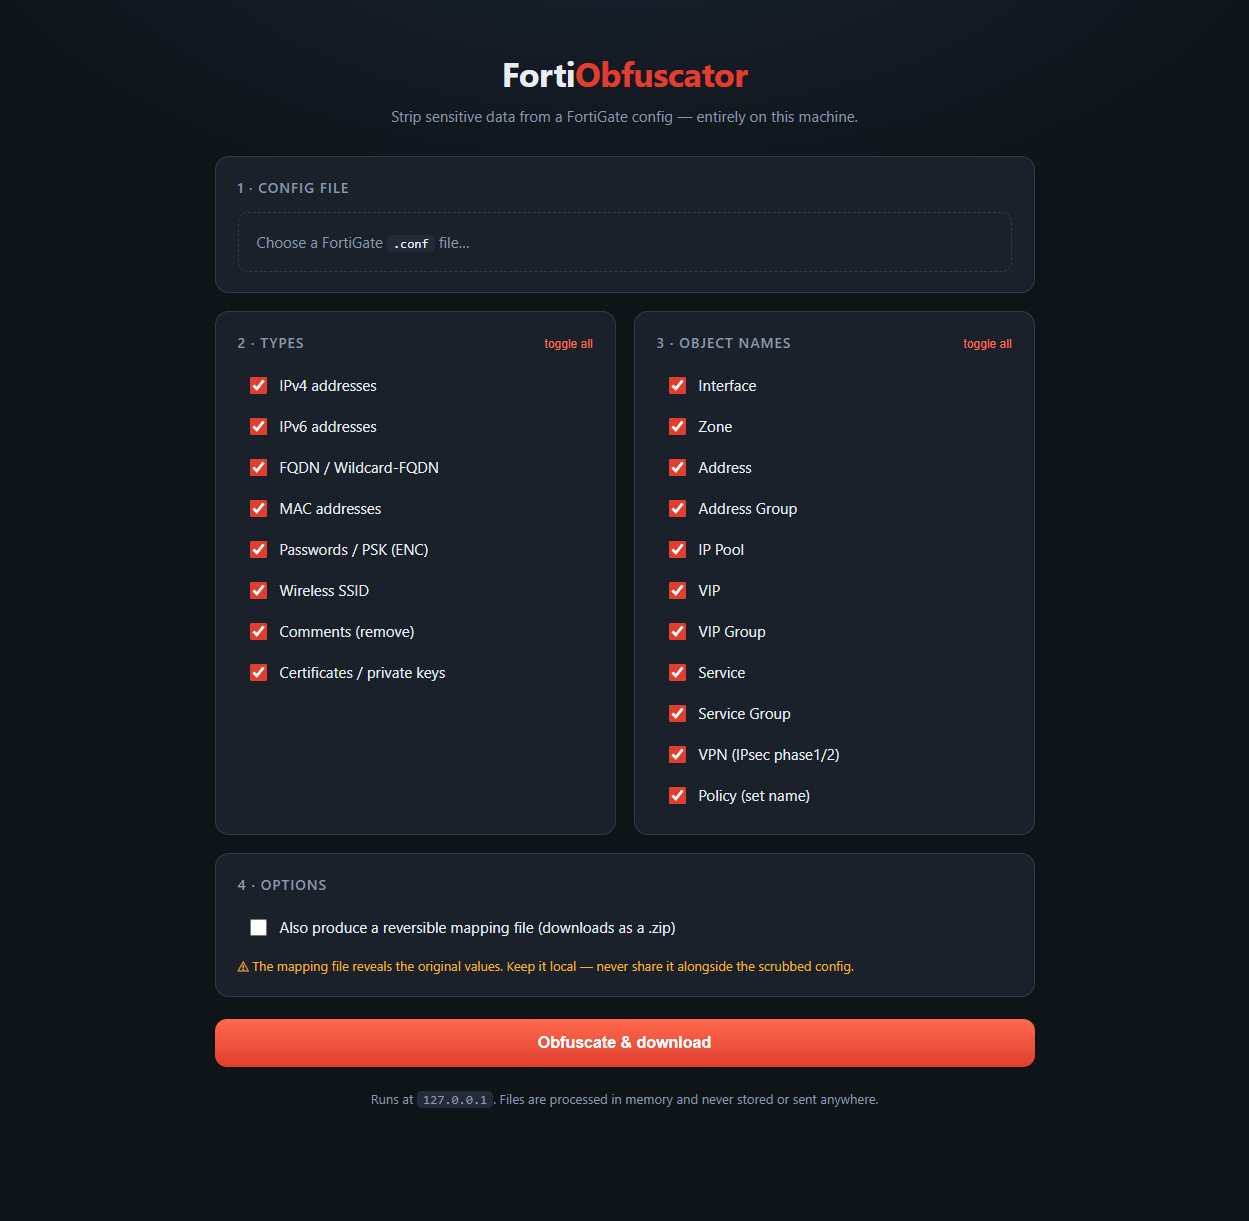
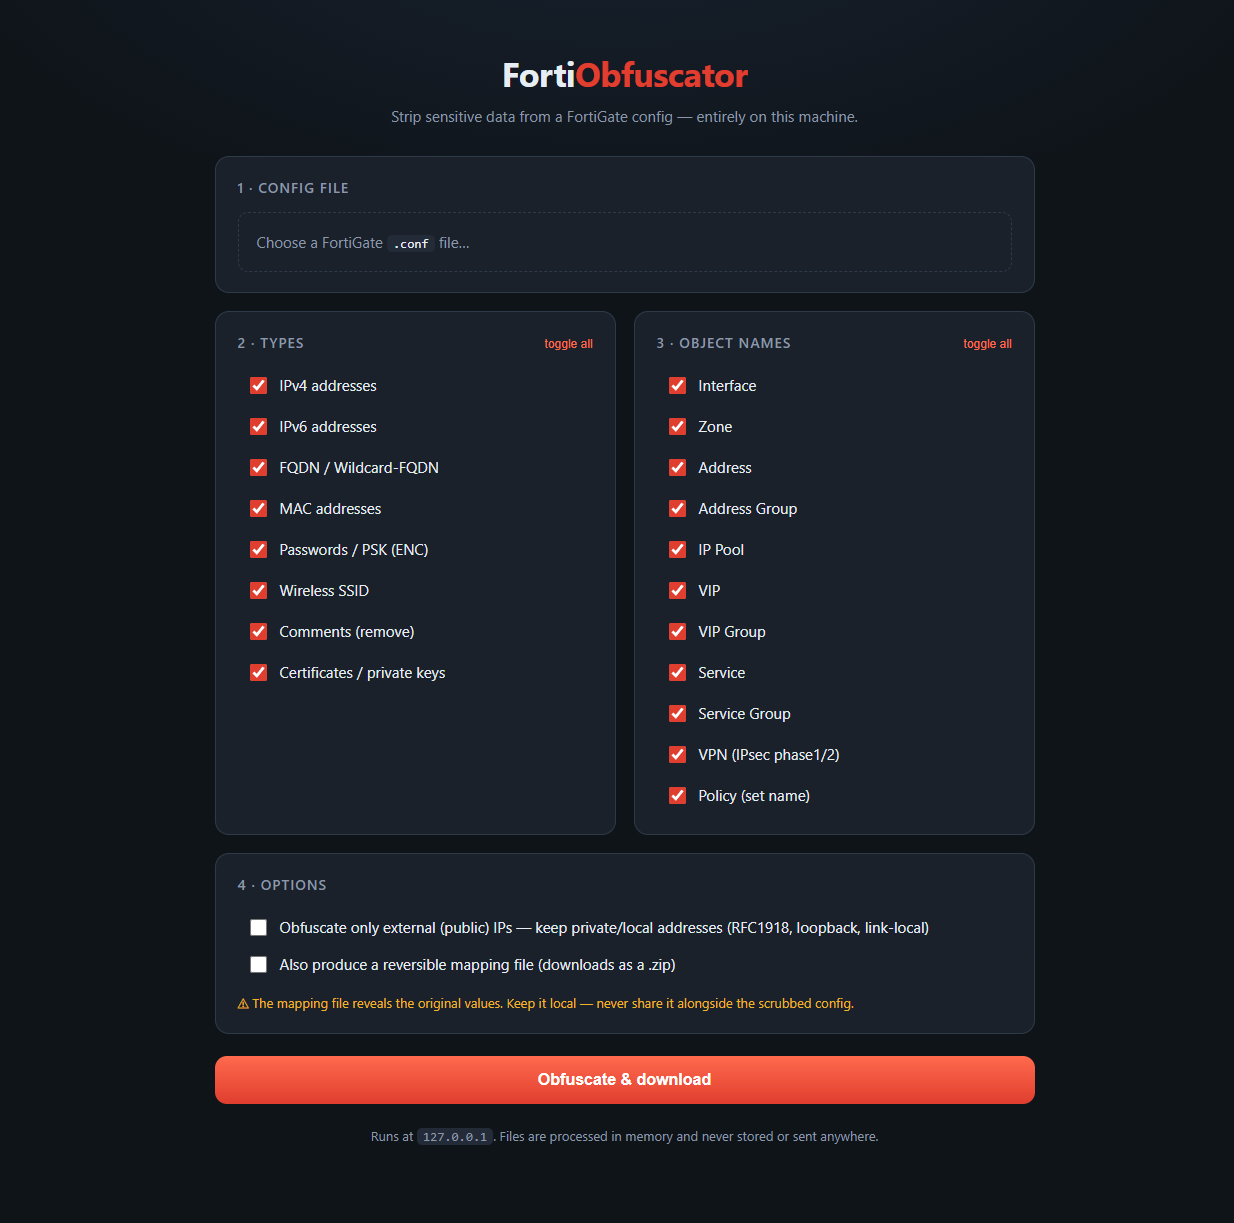
Add "external IPs only" option (keep private/local addresses)
New Options.public_ips_only: when set, only public IPs are obfuscated and
local/LAN addresses (RFC1918, loopback, link-local, ULA) are preserved. "Local"
is defined by explicit network lists (engine._is_local_ipv4/_is_local_ipv6),
narrower than ipaddress.is_private which also flags documentation ranges.

- CLI flag --public-ips-only
- web UI checkbox under Options (screenshot refreshed)
- 2 new tests; README + CLAUDE.md updated

Claude-Session: https://claude.ai/code/session_018Gw9D3mi3n5xScrhLsensL

diff --git a/webapp/templates/index.html b/webapp/templates/index.html
@@ -57,6 +57,10 @@
       <section class="card">
         <h2>4 &middot; Options</h2>
         <label class="chk">
+          <input type="checkbox" name="public_ips_only">
+          <span>Obfuscate only external (public) IPs &mdash; keep private/local addresses (RFC1918, loopback, link-local)</span>
+        </label>
+        <label class="chk">
           <input type="checkbox" name="emit_mapping">
           <span>Also produce a reversible mapping file (downloads as a .zip)</span>
         </label>

diff --git a/fortiobfuscator/engine.py b/fortiobfuscator/engine.py
@@ -25,6 +25,9 @@ class Options:
     types: set[str] = field(default_factory=lambda: set(ALL_TYPE_KEYS))
     categories: set[str] = field(default_factory=lambda: set(ALL_CATEGORY_KEYS))
     emit_mapping: bool = False
+    # When True, only public (external) IPs are obfuscated; private/local
+    # addresses (RFC1918, loopback, link-local, ULA) are left as-is.
+    public_ips_only: bool = False
 
     @classmethod
     def all_enabled(cls, emit_mapping: bool = False) -> "Options":
@@ -47,6 +50,26 @@ class Result:
 # --------------------------------------------------------------------------- #
 # Helpers
 # --------------------------------------------------------------------------- #
+
+
+# "Local" = LAN-style addresses a user typically wants to keep when only
+# scrubbing external IPs. Deliberately narrower than ipaddress.is_private, which
+# also flags documentation/benchmark ranges.
+_LOCAL_V4_NETS = tuple(
+    ipaddress.ip_network(n)
+    for n in ("10.0.0.0/8", "172.16.0.0/12", "192.168.0.0/16", "127.0.0.0/8", "169.254.0.0/16")
+)
+_LOCAL_V6_NETS = tuple(
+    ipaddress.ip_network(n) for n in ("::1/128", "fc00::/7", "fe80::/10")
+)
+
+
+def _is_local_ipv4(addr: ipaddress.IPv4Address) -> bool:
+    return any(addr in net for net in _LOCAL_V4_NETS)
+
+
+def _is_local_ipv6(addr: ipaddress.IPv6Address) -> bool:
+    return any(addr in net for net in _LOCAL_V6_NETS)
 
 
 def _is_netmask_or_zero(addr: str) -> bool:
@@ -118,6 +141,8 @@ def obfuscate(text: str, options: Options | None = None) -> Result:
                 return token  # not a real IPv6 (e.g. a MAC) — leave alone
             if int(addr) == 0:  # :: (unspecified)
                 return token
+            if options.public_ips_only and _is_local_ipv6(addr):
+                return token  # keep local addresses
             bump("ipv6")
             return ipv6_store.get(token, mp.ipv6_replacement)
 
@@ -128,6 +153,12 @@ def obfuscate(text: str, options: Options | None = None) -> Result:
             token = m.group(0)
             if _is_netmask_or_zero(token):
                 return token
+            if options.public_ips_only:
+                try:
+                    if _is_local_ipv4(ipaddress.IPv4Address(token)):
+                        return token  # keep RFC1918 / loopback / link-local
+                except ipaddress.AddressValueError:
+                    return token
             bump("ipv4")
             return ipv4_store.get(token, mp.ipv4_replacement)
 

diff --git a/tests/test_engine.py b/tests/test_engine.py
@@ -165,6 +165,27 @@ def test_disable_ipv4_leaves_ips(sample_text):
     assert "203.0.113.10" in res.text
 
 
+def test_public_ips_only_keeps_private(sample_text):
+    opts = Options.all_enabled()
+    opts.public_ips_only = True
+    res = obfuscate(sample_text, opts)
+    text = res.text
+    # private / local addresses preserved
+    assert "10.10.10.1" in text
+    assert "10.20.0.1" in text
+    assert "10.10.10.0" in text
+    # public addresses still obfuscated
+    assert "203.0.113.10" not in text
+    assert "198.51.100.5" not in text
+    assert "198.51.100.200" not in text
+
+
+def test_public_ips_only_default_off(sample_text):
+    res = obfuscate(sample_text, Options.all_enabled())
+    # default behaviour still scrubs private IPs
+    assert "10.10.10.1" not in res.text
+
+
 def test_disable_address_category_leaves_names(sample_text):
     opts = Options.all_enabled()
     opts.categories.discard("address")

diff --git a/fortiobfuscator/cli.py b/fortiobfuscator/cli.py
@@ -46,6 +46,12 @@ def build_parser() -> argparse.ArgumentParser:
             help=f"do not rename {cat.label} object names",
         )
     p.add_argument(
+        "--public-ips-only",
+        dest="public_ips_only",
+        action="store_true",
+        help="obfuscate only external (public) IPs; keep private/local addresses (RFC1918, loopback, link-local, ULA)",
+    )
+    p.add_argument(
         "--summary",
         action="store_true",
         help="print a substitution summary to stderr",
@@ -56,7 +62,12 @@ def build_parser() -> argparse.ArgumentParser:
 def options_from_args(args: argparse.Namespace) -> Options:
     types = {k for k in ALL_TYPE_KEYS if not getattr(args, f"no_{k}", False)}
     cats = {k for k in ALL_CATEGORY_KEYS if not getattr(args, f"no_{k}", False)}
-    return Options(types=types, categories=cats, emit_mapping=bool(args.mapping))
+    return Options(
+        types=types,
+        categories=cats,
+        emit_mapping=bool(args.mapping),
+        public_ips_only=bool(getattr(args, "public_ips_only", False)),
+    )
 
 
 def main(argv: list[str] | None = None) -> int:

diff --git a/webapp/app.py b/webapp/app.py
@@ -54,8 +54,14 @@ def do_obfuscate():
     types = {k for k in ALL_TYPE_KEYS if request.form.get(f"type_{k}")}
     cats = {k for k in ALL_CATEGORY_KEYS if request.form.get(f"cat_{k}")}
     emit_mapping = bool(request.form.get("emit_mapping"))
+    public_ips_only = bool(request.form.get("public_ips_only"))
 
-    options = Options(types=types, categories=cats, emit_mapping=emit_mapping)
+    options = Options(
+        types=types,
+        categories=cats,
+        emit_mapping=emit_mapping,
+        public_ips_only=public_ips_only,
+    )
     result = obfuscate(text, options)
 
     base = os.path.splitext(os.path.basename(upload.filename))[0] or "config"

diff --git a/README.md b/README.md
@@ -72,7 +72,9 @@ Every item below is an independent toggle in both the UI and the CLI.
 **Values (global, consistent)**
 
 - **IPv4 / IPv6** — every address (unicast, multicast, private, ranges) →
-  consistent fakes. Subnet masks and `0.0.0.0` are left intact.
+  consistent fakes. Subnet masks and `0.0.0.0` are left intact. An optional
+  **"external IPs only"** mode keeps local/LAN addresses (RFC1918, loopback,
+  link-local, ULA) and scrubs only the public ones.
 - **FQDN / Wildcard-FQDN** — `set fqdn` / `set wildcard-fqdn` → fake domains
   (the leading `*.` is kept).
 - **MAC** — every MAC → a consistent locally-administered fake.
@@ -93,8 +95,10 @@ reserved names — `port1`, `wan1`, `dmz`, `all`, `any`, `ALL` — are never tou
 ## Using it
 
 **Web UI** — `python -m webapp.app`, then tick the categories and hit *Obfuscate
-& download*. Check *"produce a reversible mapping file"* to get a `.zip` with the
-scrubbed config, the `original → replacement` map, and a summary.
+& download*. Under *Options* you can choose *"external IPs only"* (keep
+LAN/private addresses) and *"produce a reversible mapping file"* — the latter
+gives a `.zip` with the scrubbed config, the `original → replacement` map, and a
+summary.
 
 **CLI**
 
@@ -107,6 +111,9 @@ python -m fortiobfuscator.cli config.conf -o out.conf -m map.json --summary
 
 # turn categories off
 python -m fortiobfuscator.cli config.conf -o out.conf --no-ipv6 --no-comment --no-policy
+
+# scrub only external (public) IPs, keep LAN/private addresses
+python -m fortiobfuscator.cli config.conf -o out.conf --public-ips-only
 
 # stdin → stdout
 cat config.conf | python -m fortiobfuscator.cli - > out.conf

diff --git a/CLAUDE.md b/CLAUDE.md
@@ -80,6 +80,10 @@ value mints a deterministic replacement; repeats reuse it. All stores +
   IP (e.g. `edit "10.0.0.0"`) is handled as a name, not split by the IP regex.
 - **IPv4 substitution skips subnet masks and `0.0.0.0`** via
   `engine._is_netmask_or_zero`. Don't "fix" this — masks must survive.
+- **`Options.public_ips_only`** keeps local addresses (RFC1918, loopback,
+  link-local, ULA — see `engine._is_local_ipv4/_is_local_ipv6`) and scrubs only
+  public IPs. "Local" is defined by explicit network lists, narrower than
+  `ipaddress.is_private` (which also flags documentation ranges).
 - **IPv6 regex is deliberately broad** and validated with `ipaddress`. A MAC has
   6 colon-groups → invalid IPv6 → skipped, so MACs are never mis-typed as IPv6.
 - **Reserved/default names** (e.g. `port1`, `wan1`, `all`, `ALL`) live in